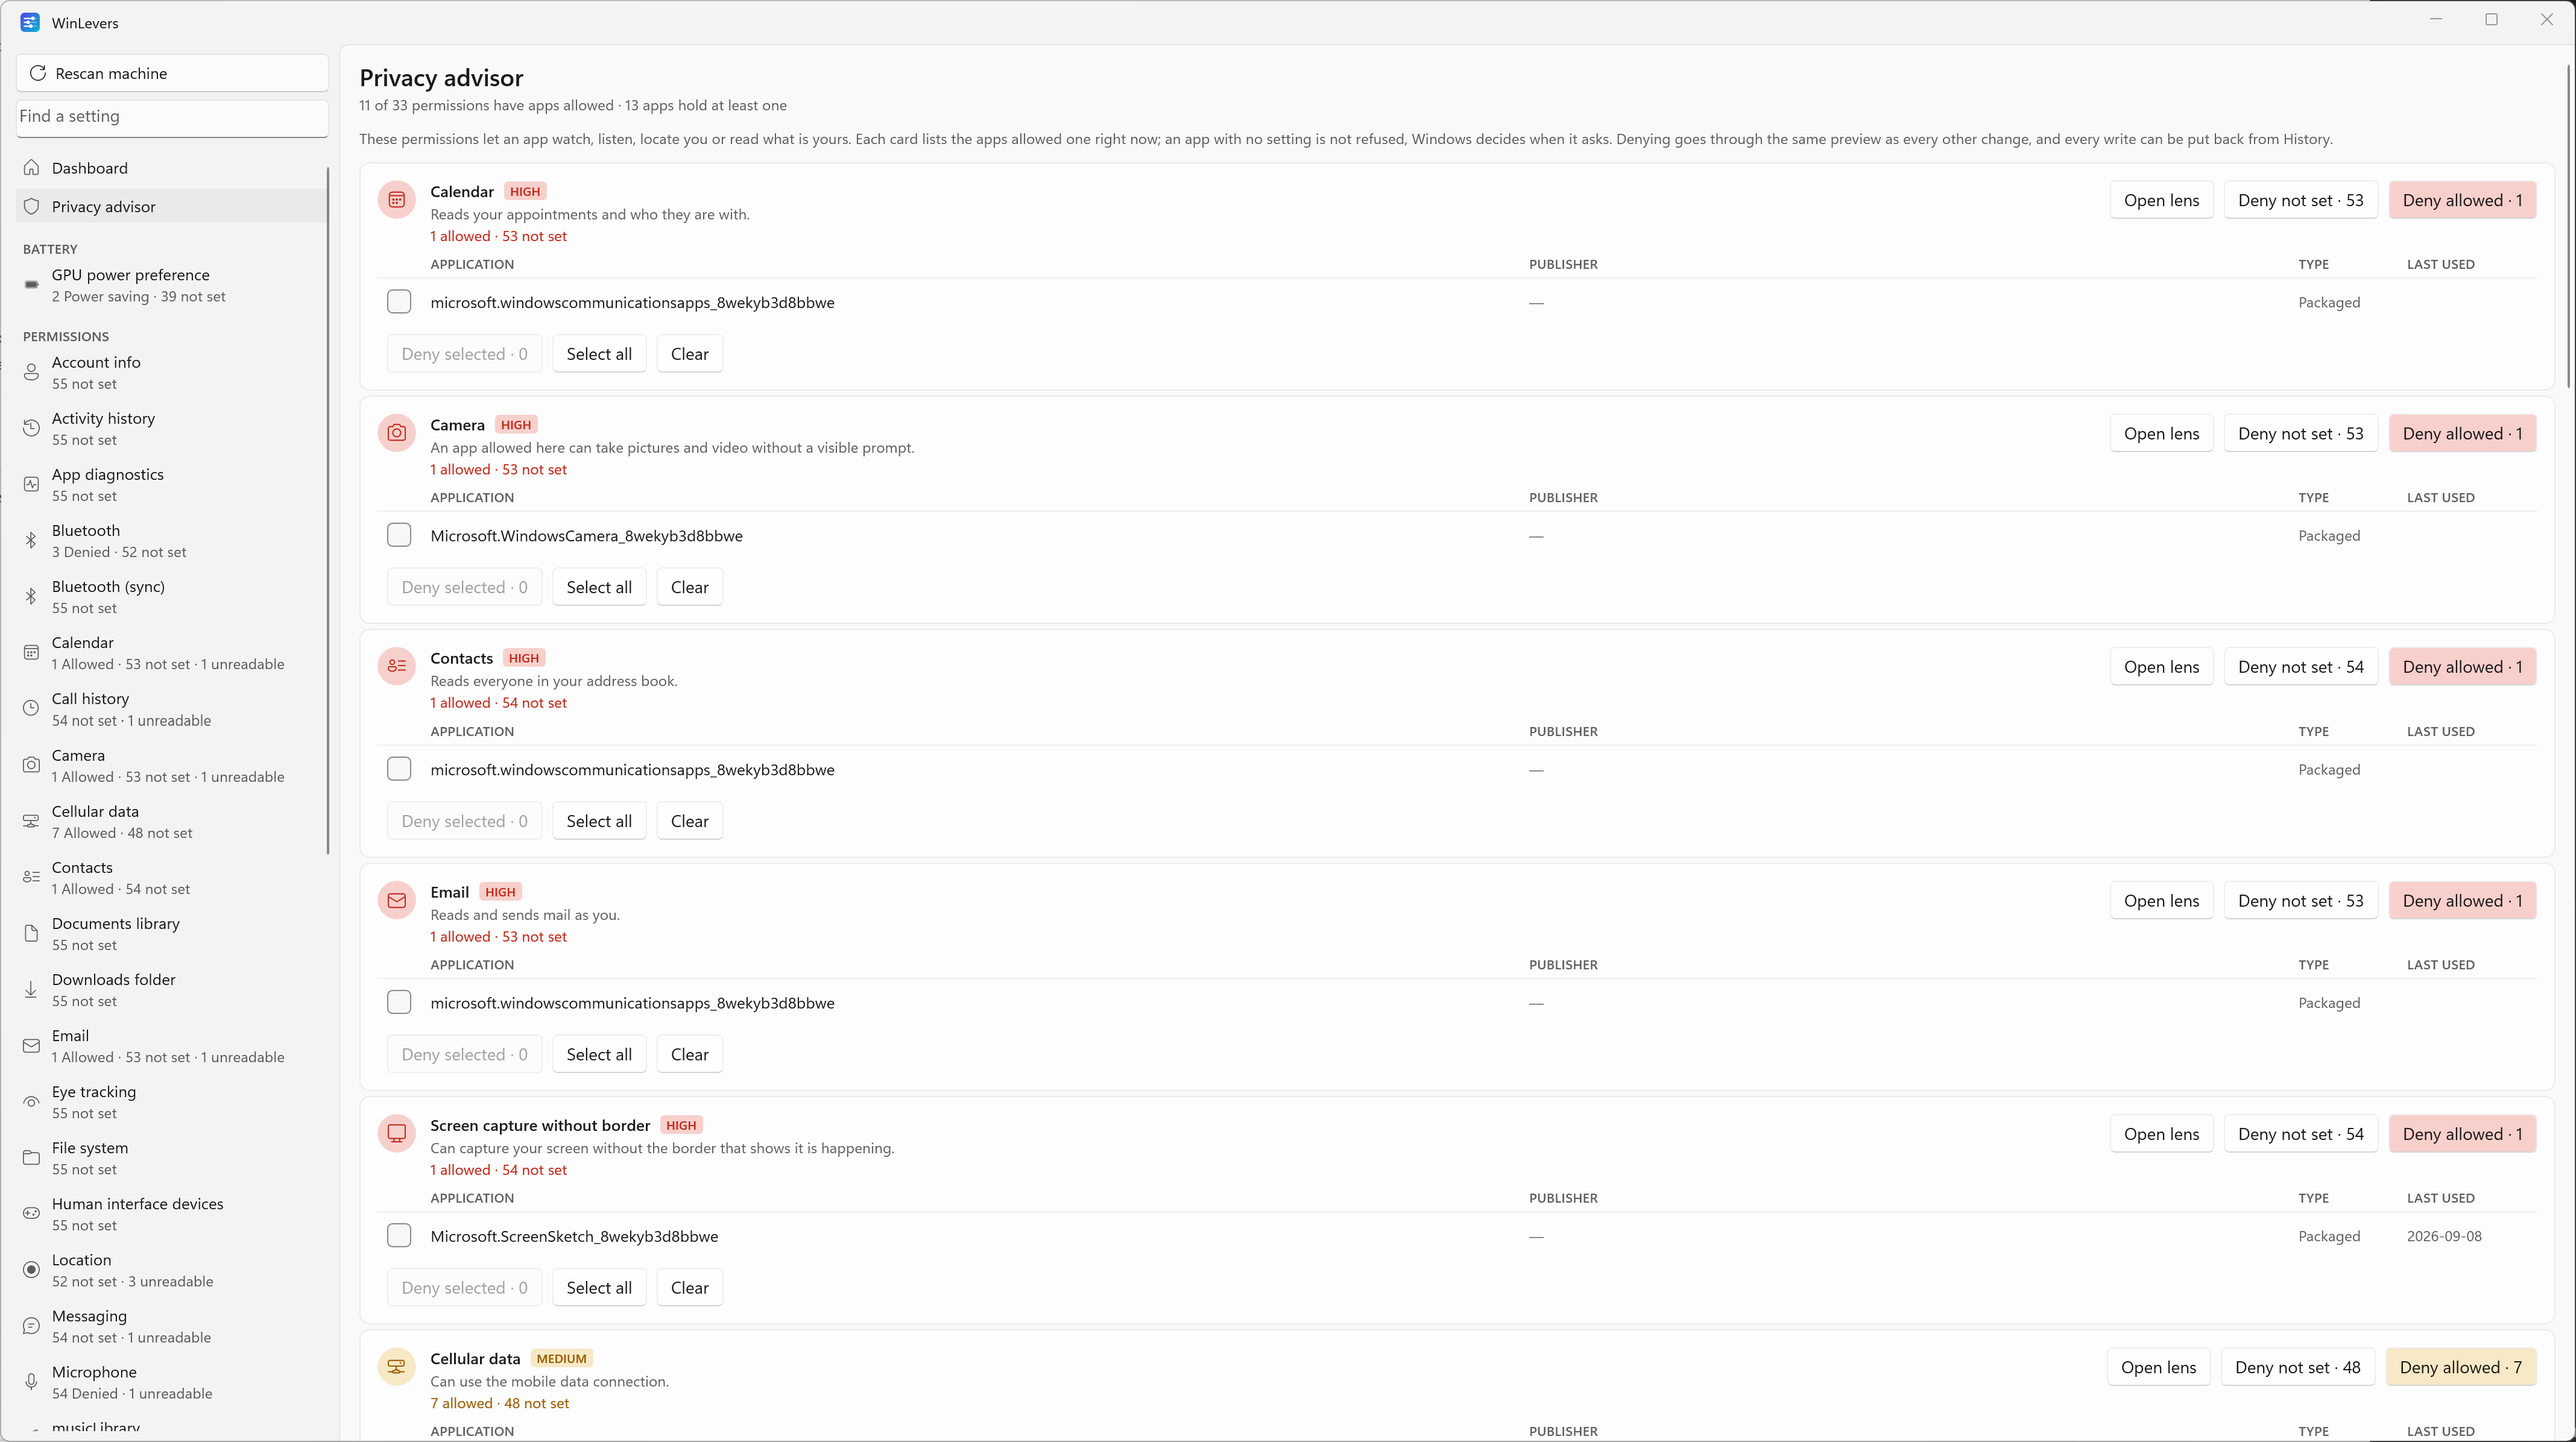
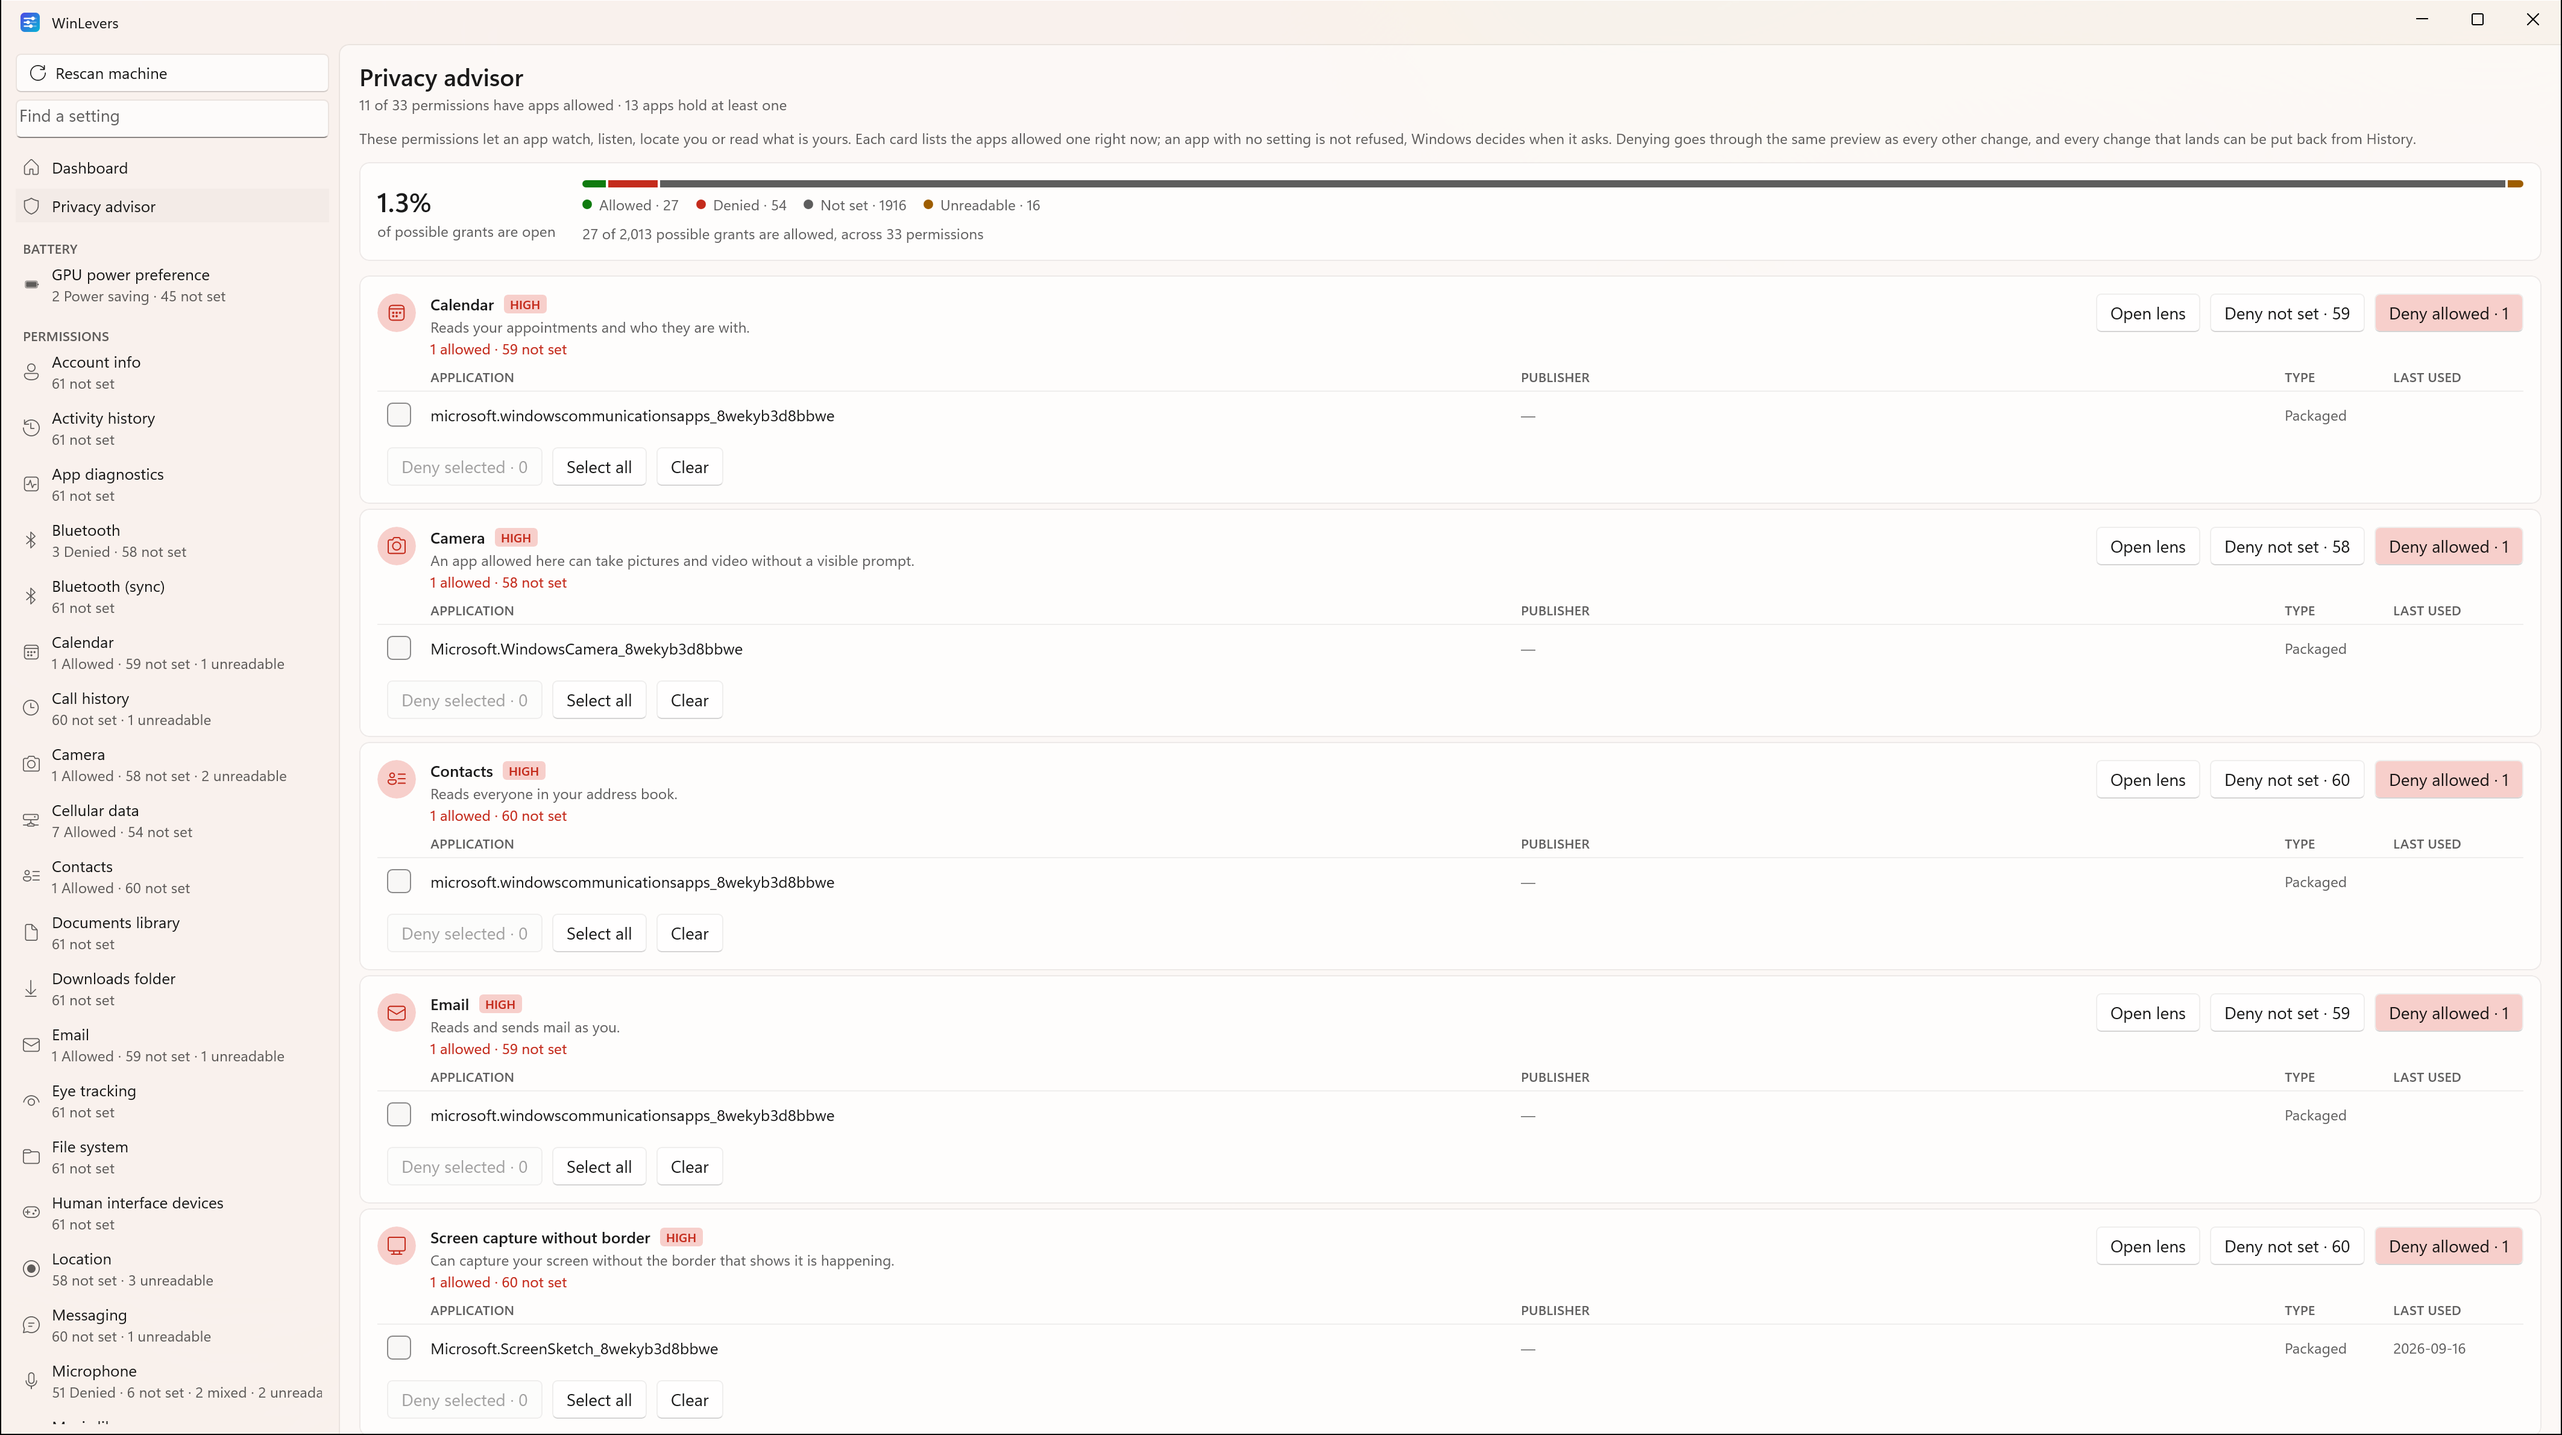
Light and dark screenshots of every view, chosen by the reader's theme
Six views, each captured in both themes from the current build. The README shows the pair that matches the reader's GitHub theme, and docs/images/README.md says what each file shows. The older screenshots stay where they are so existing links keep working.

diff --git a/README.md b/README.md
@@ -23,7 +23,10 @@
   <sub>Free, no account. <a href="#first-run-the-windows-warnings">First-run notes</a> · <a href="#build-it-yourself">Build it yourself</a></sub>
 </p>
 
-![The app grid on the Microphone lens](docs/images/apps-grid.png)
+<picture>
+  <source media="(prefers-color-scheme: dark)" srcset="docs/images/apps-grid-dark.png" />
+  <img src="docs/images/apps-grid-light.png" alt="The app grid on the Microphone lens" />
+</picture>
 
 ---
 
@@ -120,7 +123,10 @@ Every desktop app from the uninstall records, and every packaged app Windows has
 permission for, in one sortable grid. Pick a lens in the sidebar to see one lever across all of
 them, with live counts, then select any set of apps and change several levers in one batch.
 
-![The GPU power preference lens](docs/images/gpu-preference.png)
+<picture>
+  <source media="(prefers-color-scheme: dark)" srcset="docs/images/gpu-preference-dark.png" />
+  <img src="docs/images/gpu-preference-light.png" alt="The GPU power preference lens" />
+</picture>
 
 ### Privacy advisor
 
@@ -128,14 +134,20 @@ The permissions that matter most (camera, microphone, location and the like), wh
 each one, and a one-click deny for the allowed apps or for those with no setting. A bar shows
 the machine's overall privacy posture.
 
-![The privacy advisor](docs/images/privacy-advisor.png)
+<picture>
+  <source media="(prefers-color-scheme: dark)" srcset="docs/images/privacy-advisor-dark.png" />
+  <img src="docs/images/privacy-advisor-light.png" alt="The privacy advisor" />
+</picture>
 
 ### Dashboard
 
 An overview of the machine across every lever: how many apps are allowed, denied and not set,
 from the latest scan.
 
-![The dashboard](docs/images/dashboard.png)
+<picture>
+  <source media="(prefers-color-scheme: dark)" srcset="docs/images/dashboard-dark.png" />
+  <img src="docs/images/dashboard-light.png" alt="The dashboard" />
+</picture>
 
 ### History and rollback
 
@@ -143,7 +155,10 @@ Every batch you have applied, every write in it with the old and new value, and 
 the whole batch or a single change. A value changed by something else since is reported and left
 alone.
 
-![History and rollback](docs/images/history.png)
+<picture>
+  <source media="(prefers-color-scheme: dark)" srcset="docs/images/history-dark.png" />
+  <img src="docs/images/history-light.png" alt="History and rollback" />
+</picture>
 
 ### And also
 
@@ -151,7 +166,10 @@ alone.
 - **Exports:** CSV and Markdown of everything the grid shows.
 - **Settings:** light and dark themes, table options, and the window remembers where it was.
 
-![Settings](docs/images/settings.png)
+<picture>
+  <source media="(prefers-color-scheme: dark)" srcset="docs/images/settings-dark.png" />
+  <img src="docs/images/settings-light.png" alt="Settings" />
+</picture>
 
 ## How it works
 

diff --git a/docs/images/README.md b/docs/images/README.md
@@ -1,0 +1,33 @@
+# Screenshots
+
+Every view comes in a light and a dark version, taken from WinLevers 0.1.0 at
+4250×2381 (a 2136×1196 window at 200% scaling). The README shows the one that
+matches the reader's GitHub theme.
+
+| View | Light | Dark | What it shows |
+| --- | --- | --- | --- |
+| Dashboard | [dashboard-light.png](dashboard-light.png) | [dashboard-dark.png](dashboard-dark.png) | Counts per lever, the privacy bar, and a tile for every lever |
+| Privacy advisor | [privacy-advisor-light.png](privacy-advisor-light.png) | [privacy-advisor-dark.png](privacy-advisor-dark.png) | The sensitive permissions, which apps hold each, and the deny buttons |
+| App grid | [apps-grid-light.png](apps-grid-light.png) | [apps-grid-dark.png](apps-grid-dark.png) | The Microphone lens, filtered to the apps that are denied, rows tinted |
+| GPU preference | [gpu-preference-light.png](gpu-preference-light.png) | [gpu-preference-dark.png](gpu-preference-dark.png) | The GPU power preference lens, with two apps set to Power saving |
+| History | [history-light.png](history-light.png) | [history-dark.png](history-dark.png) | Past batches, each of which can be put back |
+| Settings | [settings-light.png](settings-light.png) | [settings-dark.png](settings-dark.png) | Theme, table options, and where the journal, snapshots and logs are kept |
+
+In the Settings pair the Windows user name in the three storage paths has been
+replaced with `user`; nothing else in any screenshot is edited.
+
+## Older screenshots
+
+These come from an earlier build on another machine. Some text and layout have
+changed since, so prefer the pairs above. They are kept so that existing links
+to them keep working.
+
+| File | Theme | What it shows |
+| --- | --- | --- |
+| [app-detail.png](app-detail.png) | Light | The detail dialog for one app |
+| [apps-grid.png](apps-grid.png) | Light | The Microphone lens |
+| [dashboard.png](dashboard.png) | Light | The dashboard |
+| [gpu-preference.png](gpu-preference.png) | Dark | The GPU power preference lens |
+| [history.png](history.png) | Light | History |
+| [privacy-advisor.png](privacy-advisor.png) | Light | The privacy advisor |
+| [settings.png](settings.png) | Dark | Settings, before the two-column layout |
